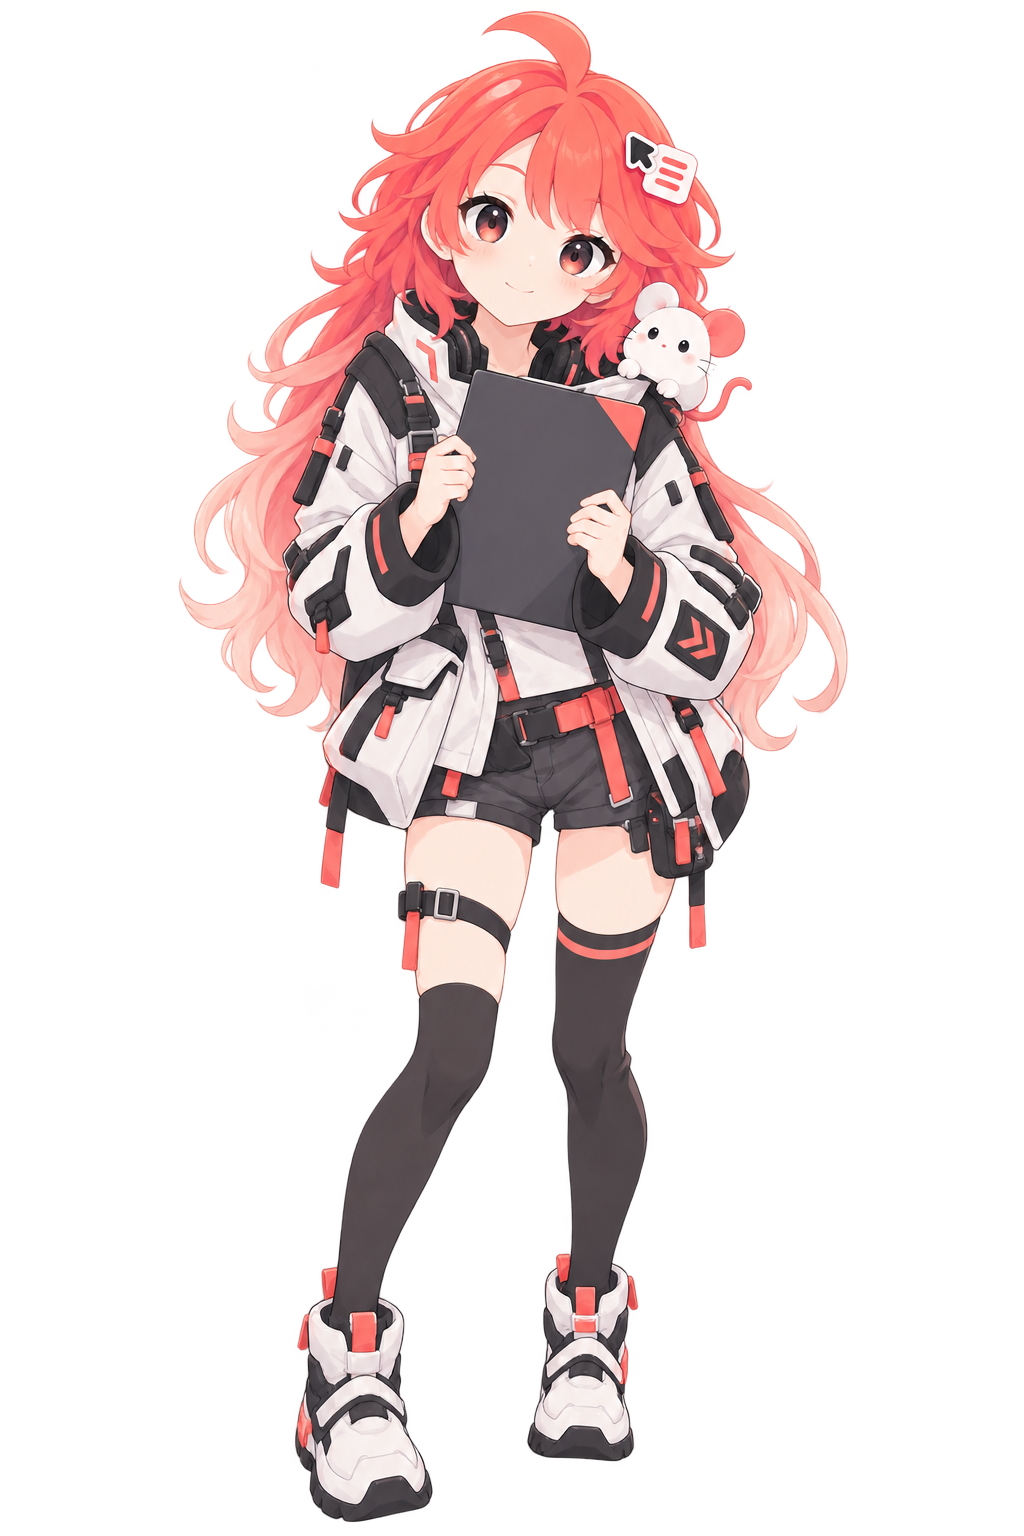
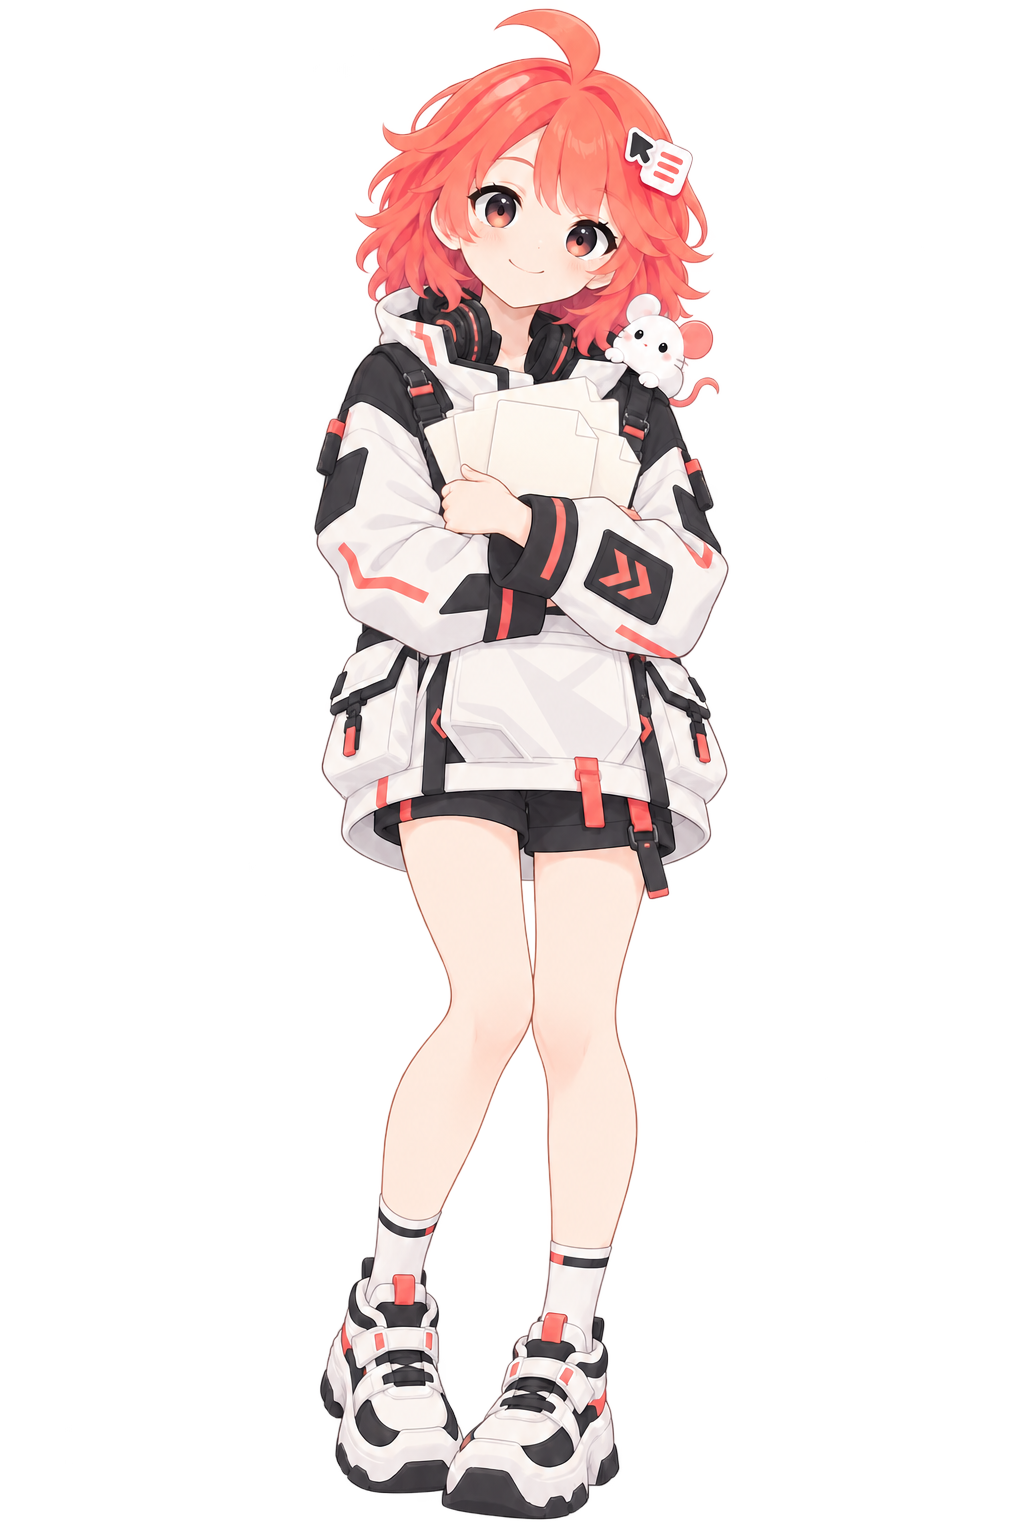
修正 ak 版章节索引位置与档案立绘造型
- 章节索引收进内容列右侧留白、贴近底部，不再压住 Riko 的脸和内容；窄于 1420px 时隐藏
- 挥手、抱文件两张档案立绘改为以站姿立绘为基准重生成，恢复到肩短发和短袜
- 文档同步

Changed region(s): [[0.1562, 0.0, 0.8438, 1.0]]

diff --git a/website/src/ak-ui.css b/website/src/ak-ui.css
@@ -206,11 +206,17 @@
 .ak-nav-links a small { display: block; font: 500 10px/1.2 var(--font); letter-spacing: .08em; }
 .ak-nav-links a[aria-current="location"] { color: var(--coral); background: none; }
 .ak-nav-links a[aria-current="location"]::after { bottom: 0; transform: none; }
-.ak-section-index { position: fixed; right: 0; top: 31%; z-index: 48; width: 170px; height: 320px; padding: 18px 16px 14px 20px; background: rgba(24,25,29,.9); color: var(--on-ink); border-left: 1px solid rgba(255,255,255,.3); pointer-events: none; overflow: hidden; }
+/* Section index lives in the right gutter beside the 1200px content column, low on the screen, so it never covers
+   the copy, the demo or Riko's face. It needs a real gutter; narrower windows drop it (see the media query below). */
+.ak-section-index {
+  --rail: min(160px, calc((100vw - var(--wrap)) / 2 - 12px));
+  position: fixed; right: 0; bottom: 40px; z-index: 48; width: var(--rail); height: 196px; padding: 14px 10px 0 14px;
+  background: rgba(24, 25, 29, 0.9); color: var(--on-ink); border-left: 1px solid rgba(255, 255, 255, 0.3); pointer-events: none; overflow: hidden;
+}
 .ak-section-index::before { content: ""; position: absolute; top: 0; bottom: 0; left: 0; width: 3px; background: var(--coral); }
-.ak-section-index-giant { position: absolute; top: 185px; left: 5px; font: 700 140px/1 "Oswald", var(--font); color: transparent; -webkit-text-stroke: 1.5px rgba(255,255,255,.6); }
-.ak-section-index-count { position: relative; display: block; font: 500 14px/1.3 var(--font-mono); color: var(--coral); white-space: nowrap; }
-.ak-section-index-title { position: relative; display: block; margin-top: 10px; font: 500 12px/1.3 var(--font-mono); text-transform: uppercase; overflow-wrap: anywhere; }
+.ak-section-index-giant { position: absolute; left: 8px; bottom: calc(var(--rail) * -0.12); font: 700 calc(var(--rail) * 0.8)/1 "Oswald", var(--font); color: transparent; -webkit-text-stroke: 1.5px rgba(255, 255, 255, 0.6); }
+.ak-section-index-count { position: relative; display: block; font: 500 12px/1.3 var(--font-mono); color: var(--coral); white-space: nowrap; }
+.ak-section-index-title { position: relative; display: block; margin-top: 8px; font: 500 12px/1.3 var(--font-mono); text-transform: uppercase; overflow-wrap: anywhere; }
 
 /* Sparse construction lines cross behind the focal media. */
 .hero::before { content: ""; position: absolute; inset: 0; background: linear-gradient(#16171c99, #16171c99), url("img/hero-pv-poster-ak.webp") center / cover no-repeat; opacity: .26; pointer-events: none; }
@@ -280,12 +286,8 @@
 @keyframes ak-profile-out { to { opacity: 0; translate: -20px 0; } }
 @keyframes ak-profile-in { from { opacity: 0; translate: 20px 0; } to { opacity: 1; translate: 0 0; } }
 
-@media (max-width: 1300px) { .ak-section-index { width: 132px; height: 260px; padding: 14px 10px 10px 14px; } .ak-section-index-giant { top: 154px; font-size: 110px; } }
+@media (max-width: 1419px) { .ak-section-index { display: none; } }
 @media (max-width: 860px) {
-  .ak-section-index { top: 72px; width: 64px; height: 144px; padding: 8px 5px 5px 7px; background: rgba(24,25,29,.72); }
-  .ak-section-index-giant { top: 94px; left: 3px; font-size: 54px; -webkit-text-stroke-width: 1px; }
-  .ak-section-index-count { font-size: 8px; }
-  .ak-section-index-title { margin-top: 4px; font-size: 8px; }
   .ak-profile-inner { grid-template-columns: 1fr; gap: 0; }
   .ak-profile-info { padding: 0; }
   .ak-profile-stage { height: min(125vw,580px); margin-bottom: -80px; }

diff --git a/docs/design/brand-character.md b/docs/design/brand-character.md
@@ -235,9 +235,9 @@ No text, no letters, no numbers, no logos, no watermark.
 
 ### 9. ak-ui 档案全身立绘和首屏 PV
 
-档案区使用四张透明全身立绘：`profile-riko-stand-ak.png`、`profile-riko-ok-ak.png`、`profile-riko-wave-ak.png` 和 `profile-riko-file-ak.png`。生成时上传 `hero-character-ak.png` 与应用图标的 `character.png`，使用 OpenAI 图片编辑通道，透明 PNG。站姿版本要求自然正面站立，OK 版本微侧身并做清晰手势，挥手版本伸出完整五指问好，文件版本抱着一张无字深灰文件卡。四张都要完整保留头顶呆毛到鞋底和四周透明边距。
+档案区使用四张透明全身立绘：`profile-riko-stand-ak.png`、`profile-riko-ok-ak.png`、`profile-riko-wave-ak.png` 和 `profile-riko-file-ak.png`。站姿版先用 `hero-character-ak.png` 与应用图标的 `character.png` 生成；其余三张以定稿的 `profile-riko-stand-ak.png` 为第一张参考图，只改姿势，这样造型才一致。使用 OpenAI 图片编辑通道，透明 PNG。站姿版本要求自然正面站立，OK 版本微侧身并做清晰手势，挥手版本伸出完整五指问好，文件版本双手把一叠三张无字奶白色折角纸质文件卡抱在胸前。四张都要完整保留头顶呆毛到鞋底和四周透明边距。
 
-提示词必须明确这些检查项：珊瑚粉渐变短发；观者右侧刘海上的白色光标发卡；黑色箭头朝左上；发卡右下三条珊瑚线；机能夹克结构与 `hero-character-ak.png` 一致；小白鼠只有观者右侧耳朵是珊瑚色；不要文字、Logo、UI、游戏素材、地面阴影或水印。文件卡只能使用纯色与折角，不出现字母、数字或符号。
+提示词必须明确这些检查项：珊瑚粉渐变、长度到肩的短发（第一版挥手和文件图变成了及腰长发加过膝袜和腿环，必须写明 `SHOULDER-LENGTH`、`short white socks`、`no thigh-high socks, no leg straps`）；观者右侧刘海上的白色光标发卡；黑色箭头朝左上；发卡右下三条珊瑚线；机能夹克结构与 `hero-character-ak.png` 一致；小白鼠只有观者右侧耳朵是珊瑚色；不要文字、Logo、UI、游戏素材、地面阴影或水印。文件卡只能使用纯色与折角，不出现字母、数字或符号。
 
 首屏背景 `hero-pv-poster-ak.png` 是 16:9 的纯环境画面，不再重复画 Riko，避免和网页前景立绘争抢焦点。左侧保留低细节暗部给网页文案，上下自然压暗。场景只使用原创的深石墨数据工作间、磨砂玻璃板、细结构线、空白文件卡片轮廓、地面微反射和珊瑚雾光，不出现人物、动物、文字和游戏素材。
 

diff --git a/docs/design/website.md b/docs/design/website.md
@@ -75,7 +75,7 @@ ak-ui 风格在此基础上改为：
 - 首屏用两三条贯穿视口的水平结构线和一条竖线切分画面，交点有小十字。Riko 和模拟窗口越过结构线，避免密集网格把内容切碎。
 - 左侧文案后面是一块平直珊瑚矩形，与 Riko 分开。`RIGHT` 空心字在边缘裁切，只作为背景图形，不进入无障碍树。
 - 首屏最底层是原创低动态 PV 视频，静态海报始终可用。视频使用上下暗边形成电影画幅，离开首屏、关闭背景动效或开启减弱动态效果时暂停。
-- 页面右侧固定章节索引显示半裁的大号编号和当前区块标题。中文页导航以窄体英文大写为主标签、中文为小标签，英文页只显示英文；当前项同时有珊瑚信号线和 `aria-current`。
+- 页面右侧固定章节索引显示半裁的大号编号和当前区块标题。它放在 1200px 内容列右侧的留白里、贴近屏幕底部，不压文案、模拟窗口和 Riko 的脸；窗口宽度小于 1420px 时留白不够，直接隐藏，当前位置由导航的 `aria-current` 表示。中文页导航以窄体英文大写为主标签、中文为小标签，英文页只显示英文；当前项同时有珊瑚信号线和 `aria-current`。
 - 下载区用同样的结构线和被裁切的 `RIKO` 空心字呼应首屏，并保留一层旋涡粒子（`orbit`）。
 - 鼠标视差（ak-ui `createDashboardDepth`）：首屏的线格、粒子、斜面、光晕和 Riko，下载区的线格、斜面、粒子和 Riko，四个功能区和工具箱的插画，都按不同深度反向移动。首屏模拟窗口不动，保证点击位置稳定。只对精确指针生效，触屏不动；减弱动态效果时回到中心。
 - 首屏和下载区各有一个「背景动效」开关（桌面在右上，手机在底部），两个开关同步控制全部粒子，`aria-pressed` 表示状态，亮起的方块表示正在播放。粒子离开视口、页面隐藏或减弱动态效果时自动暂停，减弱动态效果时开关隐藏。
